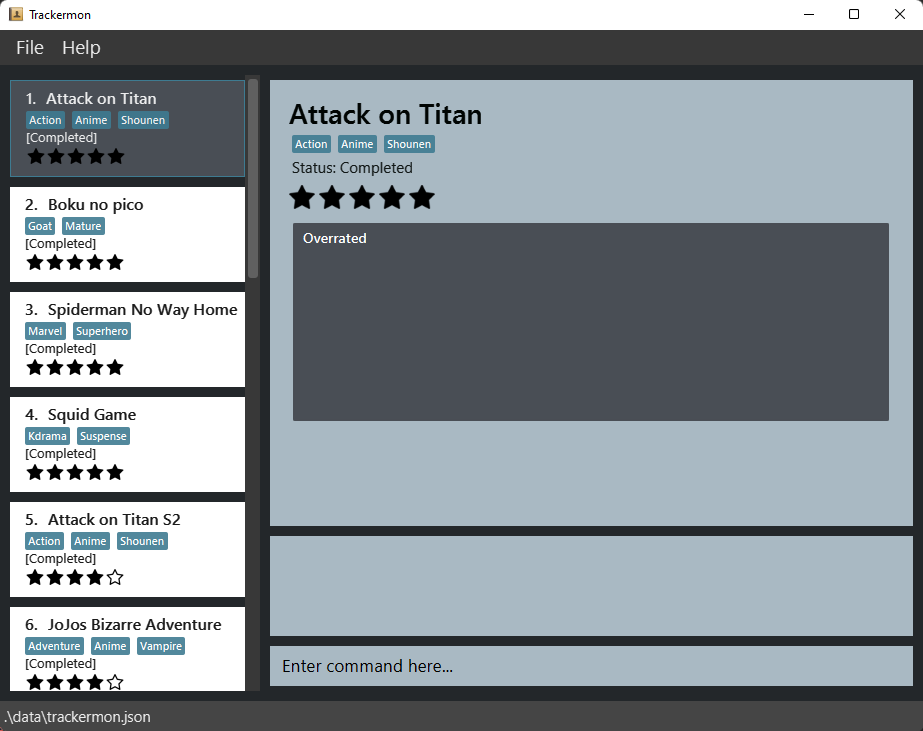
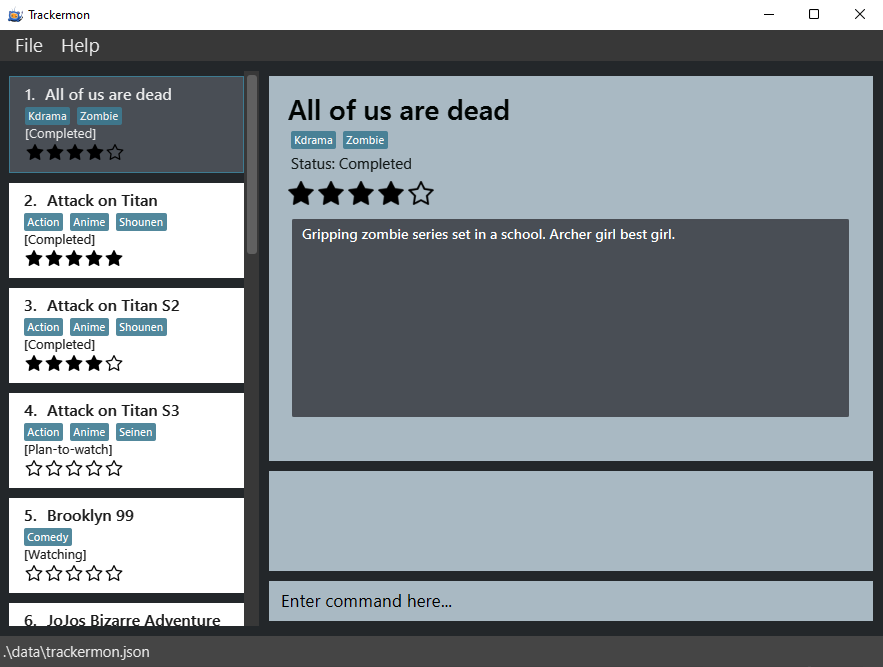
Update index UI.png and PPP (part 1)

Changed region(s): [[0.0, 0.0, 1.0, 0.9895]]

diff --git a/docs/team/jonathanhoshi.md b/docs/team/jonathanhoshi.md
@@ -6,27 +6,34 @@ title: Jonathan Yeo's Project Portfolio Page
 ### Project: Trackermon
 
 Trackermon is a desktop application for tracking and managing shows, optimized for use via a Command Line Interface (CLI) while still having the benefits of a Graphical User Interface (GUI). Trackermon helps people track and remember what shows they have watched, are currently watching, or plan to watch.
+
 Given below are my contributions to the project.
 
-* **New Feature**: _TBA_
-  * What it does: 
-  * Justification: 
-  * Highlights: 
-  * Credits: *{if any}*
-  
-* **Code contributed**: [RepoSense link]()
+* **Code contributed**: [RepoSense link](https://nus-cs2103-ay2122s2.github.io/tp-dashboard/?search=Jonathan&sort=groupTitle&sortWithin=title&since=2022-02-18&timeframe=commit&mergegroup=&groupSelect=groupByRepos&breakdown=false)
 
 * **Project management**:
   * _TBA_
 
 * **Enhancements to existing features**:
-  * _TBA_
+  * Improved the GUI of Trackermon
+    * Details: Used the design made by [aweijun](aweijun.md) and made some improvements to the application design of Trackermon. 
+    * Issues: General GUI [[\#74](https://github.com/AY2122S2-CS2103T-T09-3/tp/issues/74)], Rating GUI [[\#70](https://github.com/AY2122S2-CS2103T-T09-3/tp/issues/70)], Comment GUI [[\#73](https://github.com/AY2122S2-CS2103T-T09-3/tp/issues/73)]
+    * PRs: [[\#130](https://github.com/AY2122S2-CS2103T-T09-3/tp/pull/130)], [[\#170](https://github.com/AY2122S2-CS2103T-T09-3/tp/pull/170)], [[\#165](https://github.com/AY2122S2-CS2103T-T09-3/tp/pull/165)]
+
+    <img src="images/Ui.png">
+  
+  * Fix storage system on mac and linux not saving to the correct location
+    * Details: Mac and Linux data file path does not store together with the jar file. Work together with [arcornior](arcornior.md) as he tested the storage system on mac and linux.
+    * Issues: Storage Fix [[\#178](https://github.com/AY2122S2-CS2103T-T09-3/tp/issues/178)], Editor Storage Fix [[\#178](https://github.com/AY2122S2-CS2103T-T09-3/tp/issues/178)]
+    * PRs: [[\#167](https://github.com/AY2122S2-CS2103T-T09-3/tp/pull/167)], [[\#177](https://github.com/AY2122S2-CS2103T-T09-3/tp/pull/177)]
+  
 
 * **Documentation**:
-  * User Guide:
+  * User Guide: 
     * Added basic information of Trackermon and Quick Start
-  * Developer Guide:
-    * _TBA_
+  * Developer Guide: [[\#148](https://github.com/AY2122S2-CS2103T-T09-3/tp/issues/148)]
+    * Update documentation and UML diagrams for UI.
+      * Format manual testing section.
 
 * **Community**:
   * PRs reviewed (with non-trivial review comments): _TBA_ <!--[\#12](), [\#32](), [\#19](), [\#42]()-->
